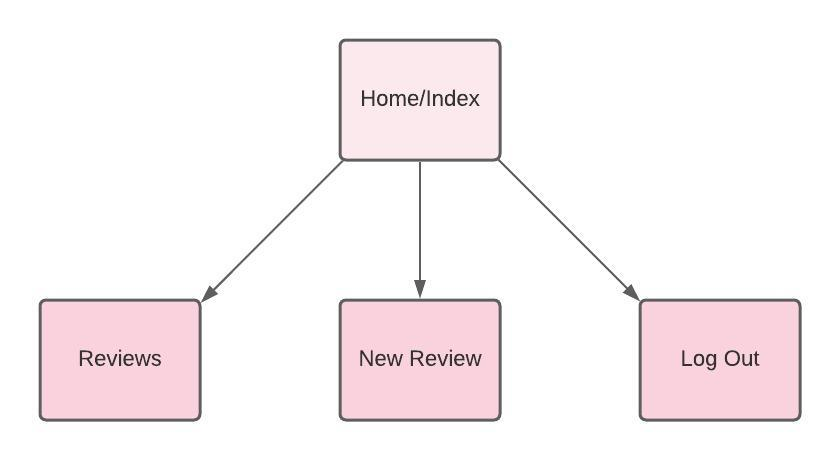
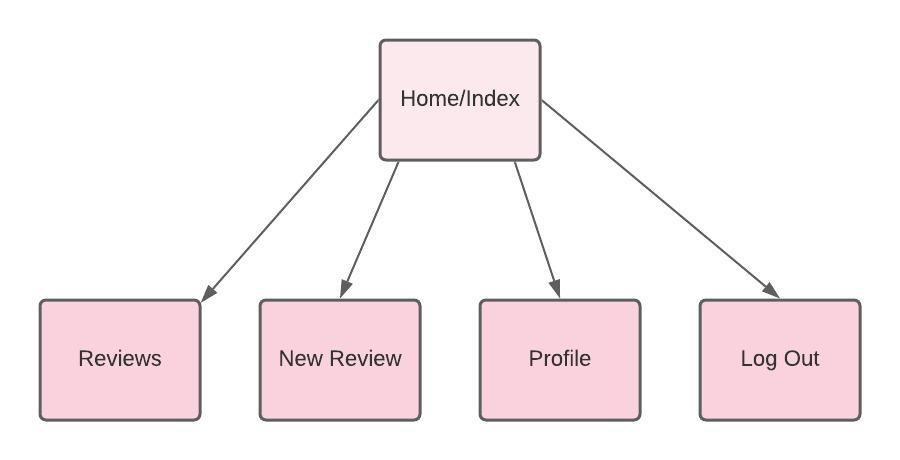
docs: Add updated structure detail

diff --git a/README.md b/README.md
@@ -57,27 +57,28 @@ Table Of Contents Here.
 
 **As A New User (Not Logged In)**
 
-![Structure of a user not logged in](static/testing/not-logged-in-user.jpeg)
-
 * A user who is not logged in, can reach four pages;
-* Home / Index
-* Reviews - Cannot upload a review.
-* Register 
-* Log In 
+  - Home / Index
+  - Reviews 
+  - Register 
+  - Log In 
+
+![Structure of a user not logged in](static/testing/not-logged-in-user.jpeg)
 
 **As A Registered User (Logged In)** 
 
-![Structure of a user who is logged in](static/testing/logged-in-user.jpeg)
+* A user who is logged in, can reach five pages;
+  - Home / Index 
+  - Profile
+  - Reviews 
+  - New Review 
+  - Log Out
 
-* A user who is logged in, can reach four pages;
-* Home / Index 
-* Reviews - Can edit or delete own reviews.
-* Edit Review 
-* Log Out
+![Structure of a user who is logged in](static/testing/logged-in-user.jpeg)
 
 **As Admin (Site Owner)**
 
-* Admin has access to all pages and an extra page named "Manage Reviews". The Admin can edit or delete any review made on the site. The purpose of the account is to manage and maintain all reviews, if any inappropiate reviews are made the Admin user can easily delete or modify as they wish. 
+* Admin has access to all pages and a 6th page named **"Manage Reviews"**. The Admin can edit or delete any review made on the site. The purpose of the account is to manage and maintain all reviews, if any inappropiate reviews are made the Admin user can easily delete or modify as they wish. 
 
 **For All Users**
 
